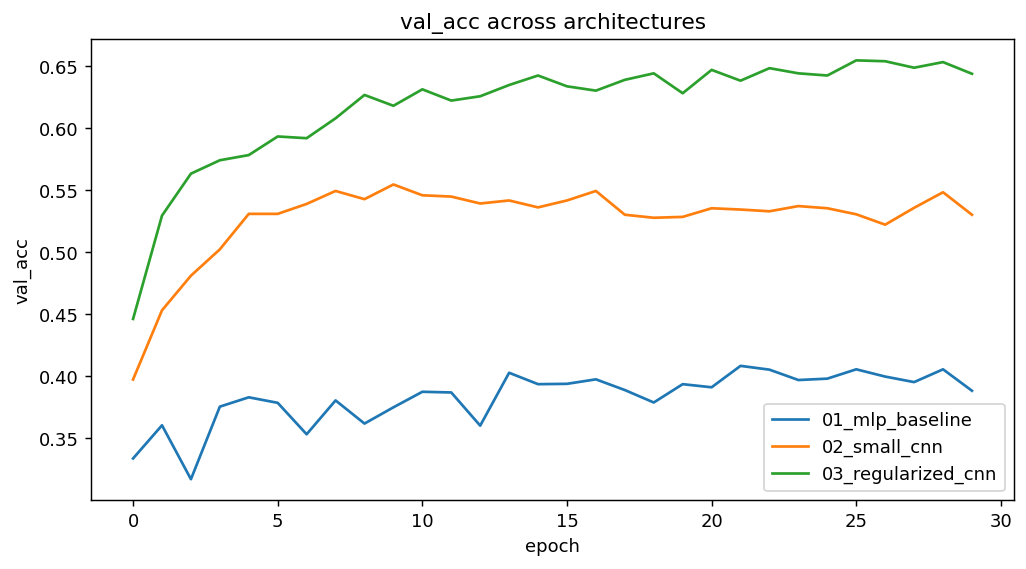
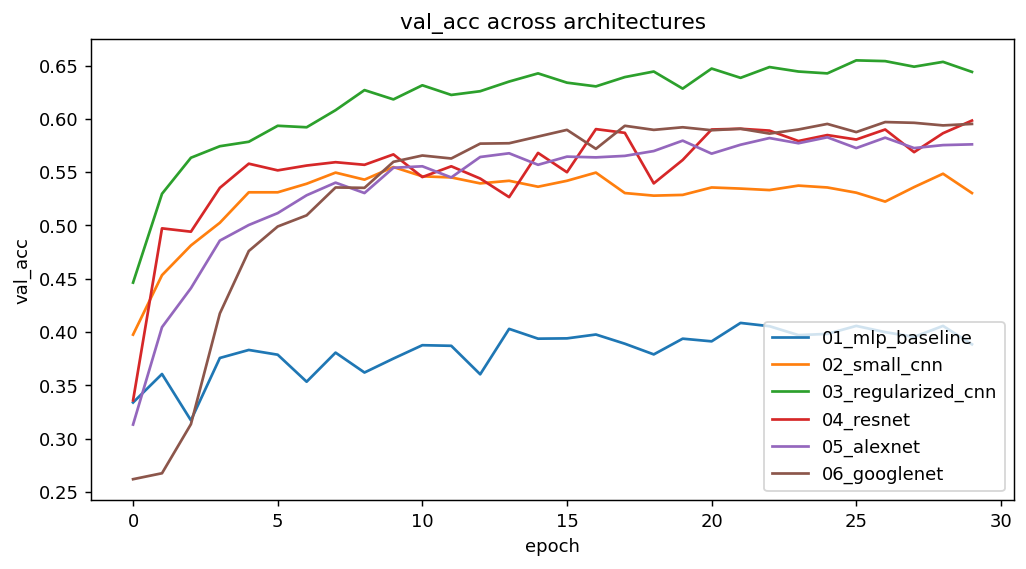
Fill README with real W&B results: 6 architectures, hyperparameter findings, augmentation winner, demos

diff --git a/save_figures.py b/save_figures.py
@@ -18,11 +18,16 @@ sys.path.insert(0, ROOT)
 
 from src.plots import Plotter  # noqa: E402
 
-RUNS = ["01_mlp_baseline", "02_small_cnn", "03_regularized_cnn"]
+RUNS = ["01_mlp_baseline", "02_small_cnn", "03_regularized_cnn",
+        "04_resnet", "05_alexnet", "06_googlenet"]
 CURVE_FILES = {
     "01_mlp_baseline": "images/exp1_mlp.png",
     "02_small_cnn": "images/exp2_smallcnn.png",
     "03_regularized_cnn": "images/exp3_regcnn.png",
+    "04_resnet": "images/exp4_resnet.png",
+    "05_alexnet": "images/exp5_alexnet.png",
+    "06_googlenet": "images/exp6_googlenet.png",
+    "hp_regcnn_aug": "images/exp_aug.png",
 }
 
 
